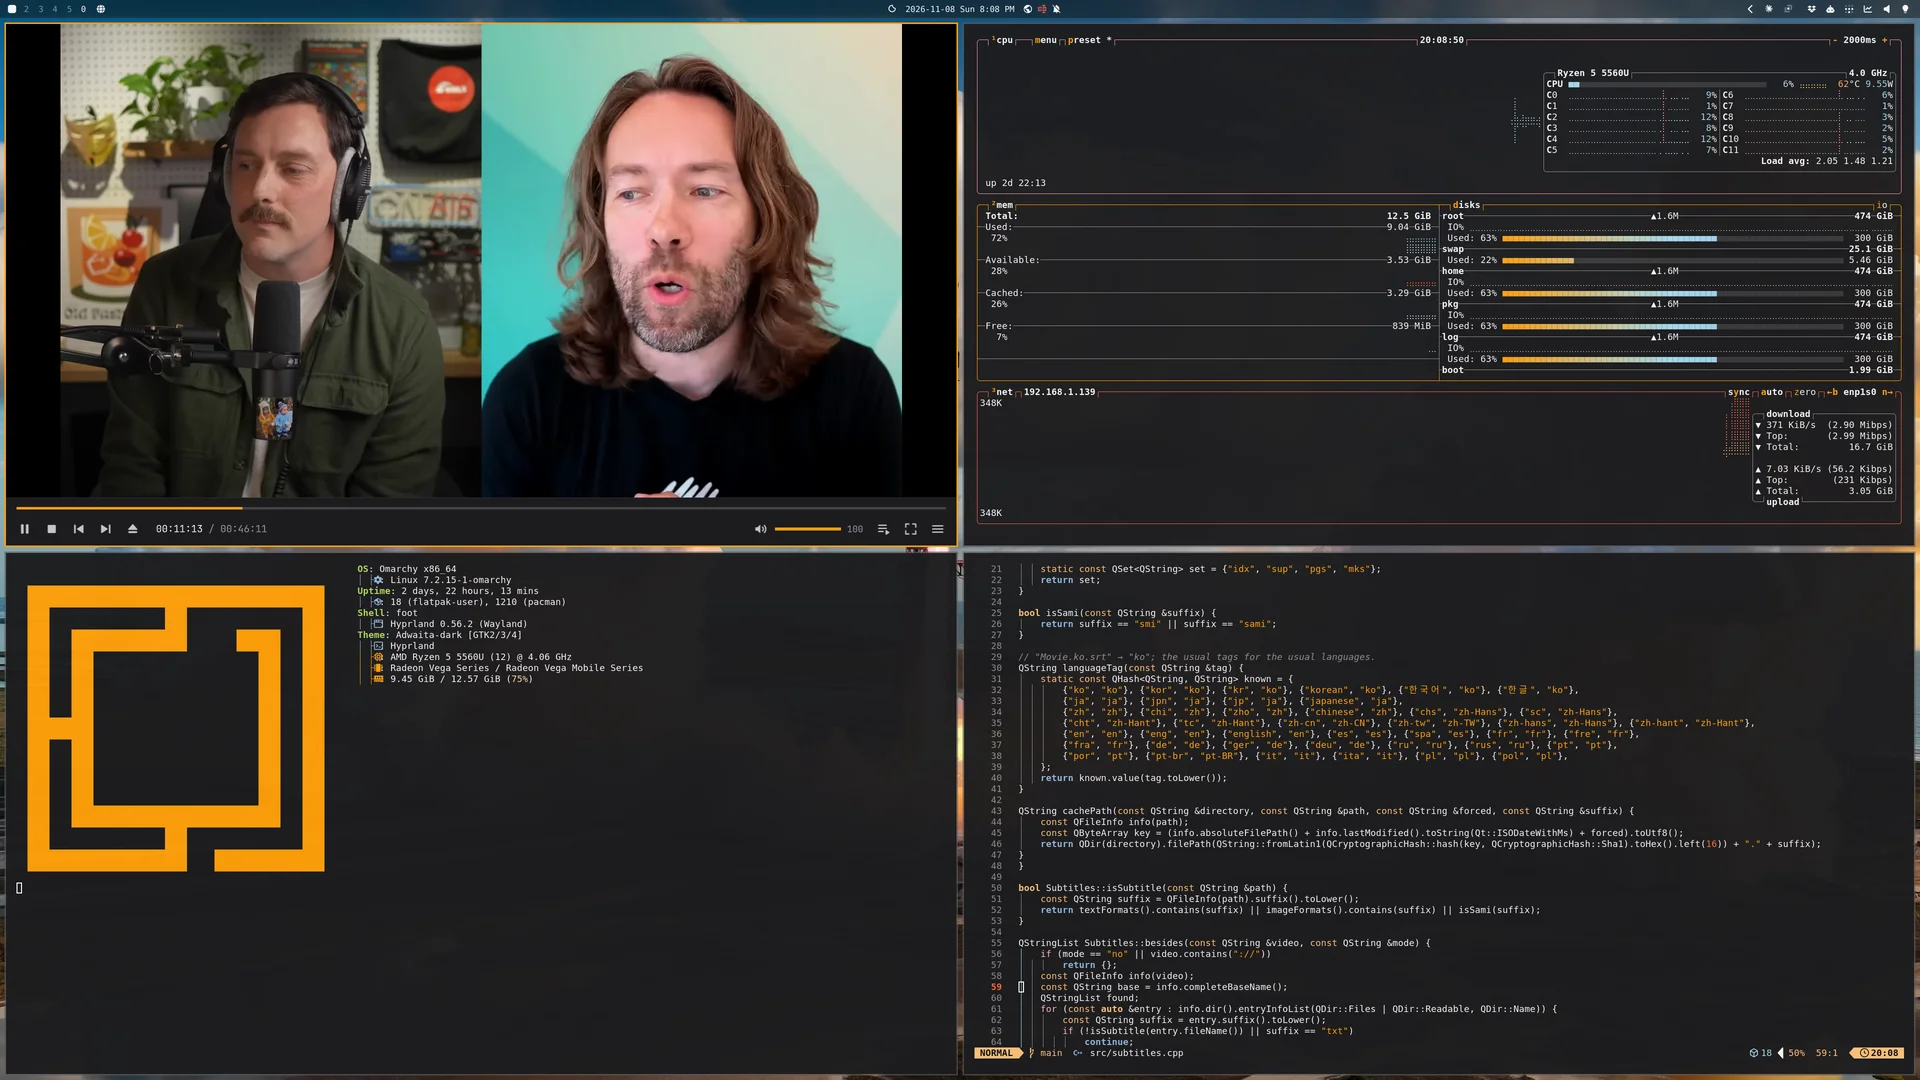
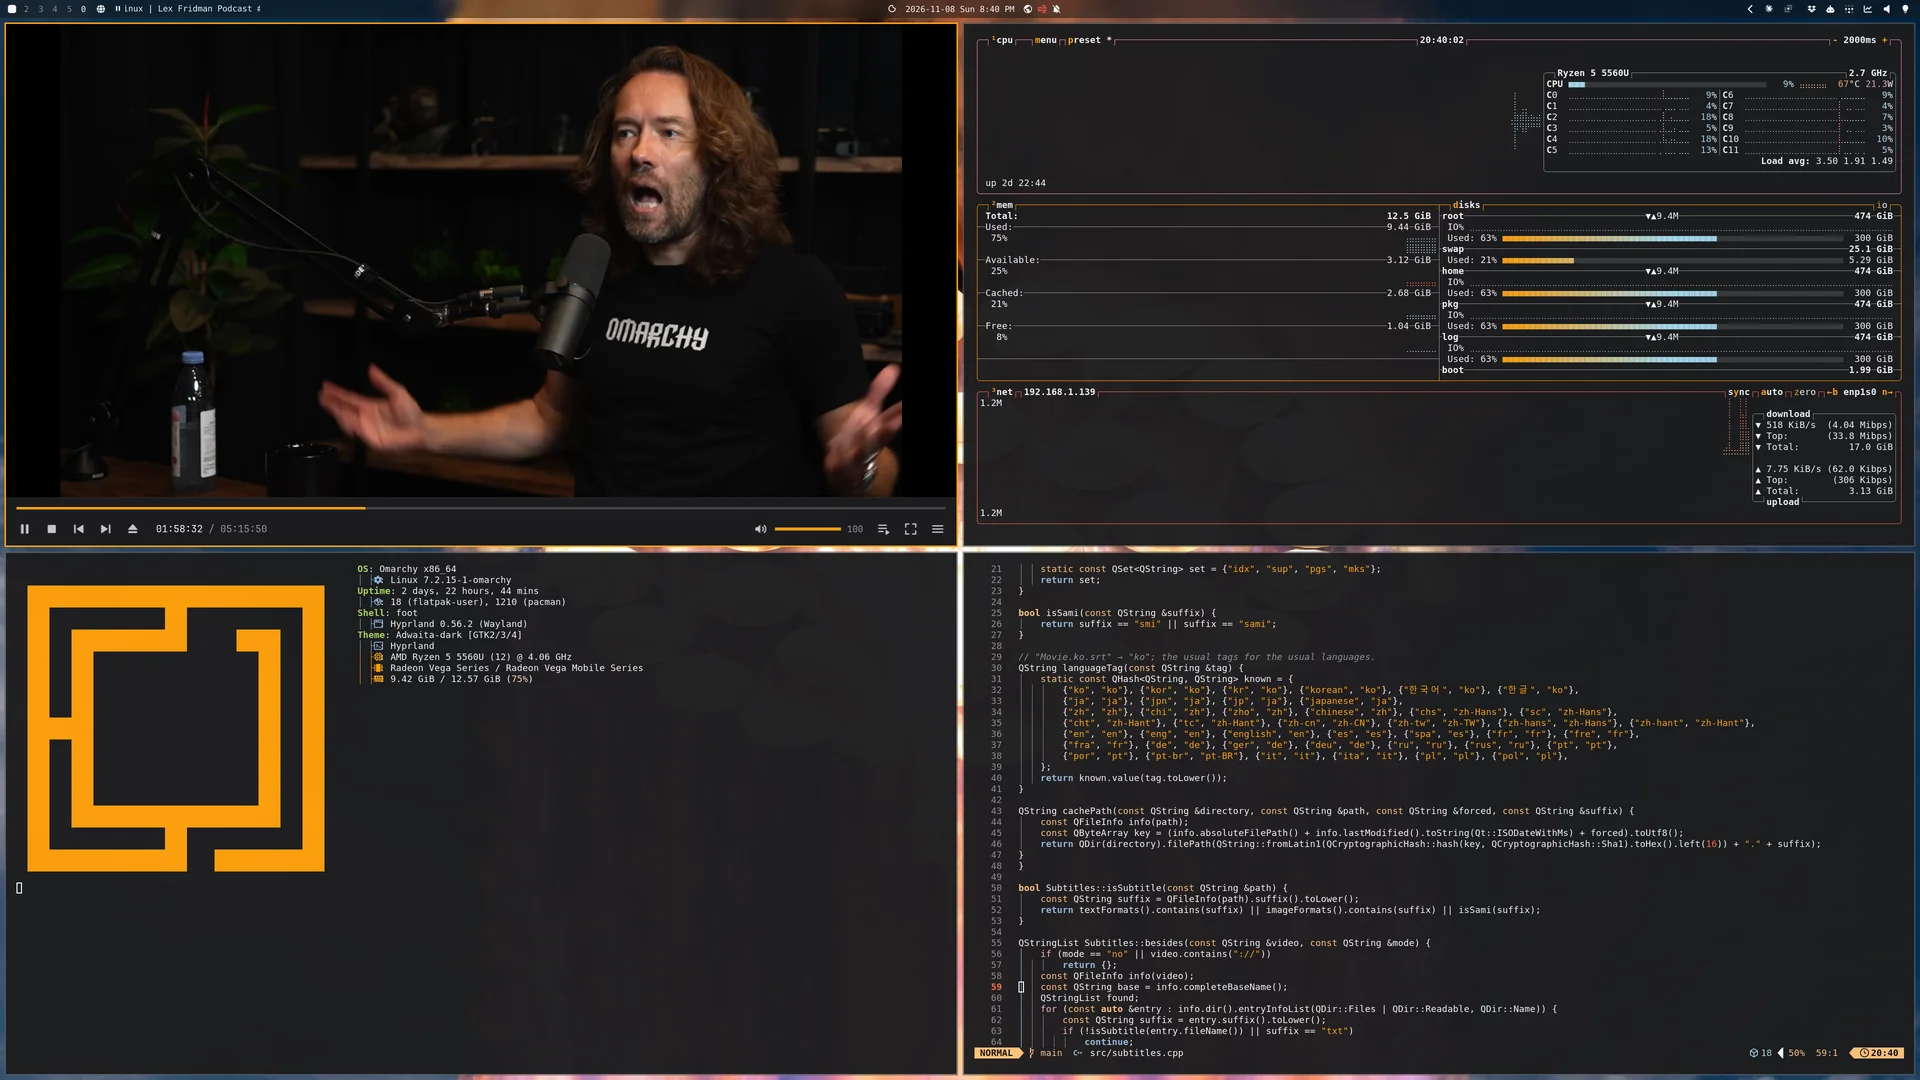
Screenshots from DHH on the Lex Fridman Podcast; document media keys, picture in picture, and updates

diff --git a/README.md b/README.md
@@ -32,6 +32,9 @@ had, doesn't run here.
   open. No skins, no ads, no add-on store.
 - **Your theme is the skin.** Every color comes from your Omarchy theme, and it
   changes the moment you switch themes. Clean, keyboard-first, no chrome to spare.
+- **A citizen of the desktop.** Media keys, headphone buttons, and the Omarchy
+  bar control it. `P` pops the video into a pinned corner while you work.
+  `omarchy-update` keeps it current.
 - **mpv speed, no compromise.** Hardware decoding, video drawn straight into the
   window, folder playlists, resume where you left off, and YouTube by URL.
 - **Subtitles never come out garbled.** Any encoding, any language. See below.
@@ -109,7 +112,7 @@ Cyrillic, Greek, Hebrew, Arabic, Turkish, European, and more. It's tested on
 | `Ctrl+Enter` · `Ctrl+F6` · `Ctrl+Z` | Fill the screen · aspect ratio · mirror |
 | `Ctrl+E` / `K` · `Ctrl+C` | Save a screenshot · copy the frame |
 | `Enter` / `Alt+Enter` / `F11` · `Esc` | Fullscreen · leave it |
-| `Tab` | Playback info |
+| `Tab` · `P` | Playback info · picture in picture |
 | `F6` / `Ctrl+L` | Playlist |
 | `F5` / `Ctrl+,` | Settings |
 | `Ctrl+O` · `Ctrl+V` · `Ctrl+Y` | Open a file · open from the clipboard · reopen the last file |
@@ -135,5 +138,5 @@ C++ and Qt Quick around libmpv. See [`AGENTS.md`](AGENTS.md) for how it fits tog
 ## License
 
 GPL-3.0. Parts adapted from Omacut and Monologue are MIT; see [`NOTICE`](NOTICE).
-Screenshots show [“DHH discusses Linux and Omarchy”](https://www.youtube.com/watch?v=zikJTpJgzzo)
-by typecraft, streamed from YouTube.
+Screenshots show [“DHH: Future of Programming, AI, Agentic Engineering, Vibe Coding & Linux”](https://www.youtube.com/watch?v=NYFGCESmikA)
+(Lex Fridman Podcast #501), streamed from YouTube.
